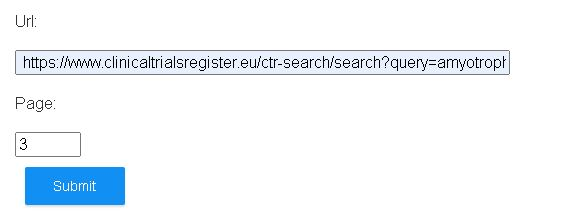
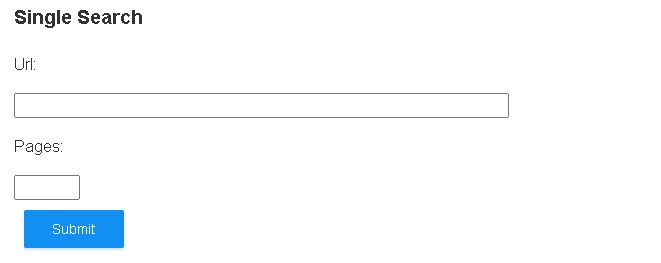
- Updated the Read Me

Changed region(s): [[0.0, 0.2192, 0.8979, 0.7123], [0.0, 0.6849, 0.2394, 0.9589], [0.0, 0.0274, 0.2394, 0.137]]

diff --git a/src/main/resources/static/index.html b/src/main/resources/static/index.html
@@ -28,7 +28,7 @@
                                required/>
                     </div>
                     <div class="col-md-2">
-                        <p style="text-align: left">Page:</p>
+                        <p style="text-align: left">Pages:</p>
                         <input id="pageNumberInput" type="text" name="pageNumber"
                                class="file-input" style="width: 10%" required/>
                     </div>

diff --git a/README.md b/README.md
@@ -1,30 +1,34 @@
 # Eu-Clinical-Trial-Web-Scraper
 
 ## About
+* ***All excel instances and files must be closed out for this to work!***
 * Scrapes all the info from a search on https://www.clinicaltrialsregister.eu
 * [GO HERE](http://eu-clinical.donkirk.net/)  
 
 ## Single Search
-Copy the link from the search results from the clinical trials register page.  
+Copy the link from the search results from the clinical trials register page. 
+Provide the number of pages you want scraped. If the search returns a max of 3 pages, then you can choose between 1-3 pages.
 [Example](https://www.clinicaltrialsregister.eu/ctr-search/search?query=amyotrophic+lateral+sclerosis&age=adult&phase=phase-two&phase=phase-three&phase=phase-four&dateFrom=2010-01-01&dateTo=2021-01-01)  
 
-![Single Search](pictures/single_search.JPG)
+![Single Search](https://github.com/Dkirk25/eu-clinical-trial-web-scraper/blob/master/pictures/single_search.JPG)
 
 --------------------------------------------------------------------------------
-## Multiple Searches
-Similar to the Single search, Multiple Search option allows the user to search more than one search in one go.
+## Bulk Searches
+Similar to the Single search, the Bulk Search option allows the user to search more than one request in one go.
 You need a text file(.txt) with the same parameters as the single search.  
 
 Each line has the search url and page number  
 In the example below you see the search url and the page number "1" because thats how many pages I want to scrape per request.
 
-![Multiple Search](pictures/multiple_search.JPG "Multiple Search Example")
+![Multiple Search](https://github.com/Dkirk25/eu-clinical-trial-web-scraper/blob/master/pictures/multiple_search.JPG "Multiple Search Example")
 
 --------------------------------------------------------------------------------
 ## Cross Search
 * Two excel files are required
-* Removes any records from the EU excel file that matches the US excel file
-  * Compares on US otherId and EU SponsorProtocolNumber
+    * US Excel File
+    * EU Excel File
+* Removes any records from the EU excel file that matches the US excel file based on:
+  * Compares on US *OtherId* and EU *SponsorProtocolNumber* **EXACTLY**
   
 Below these headers are **required!**
 
